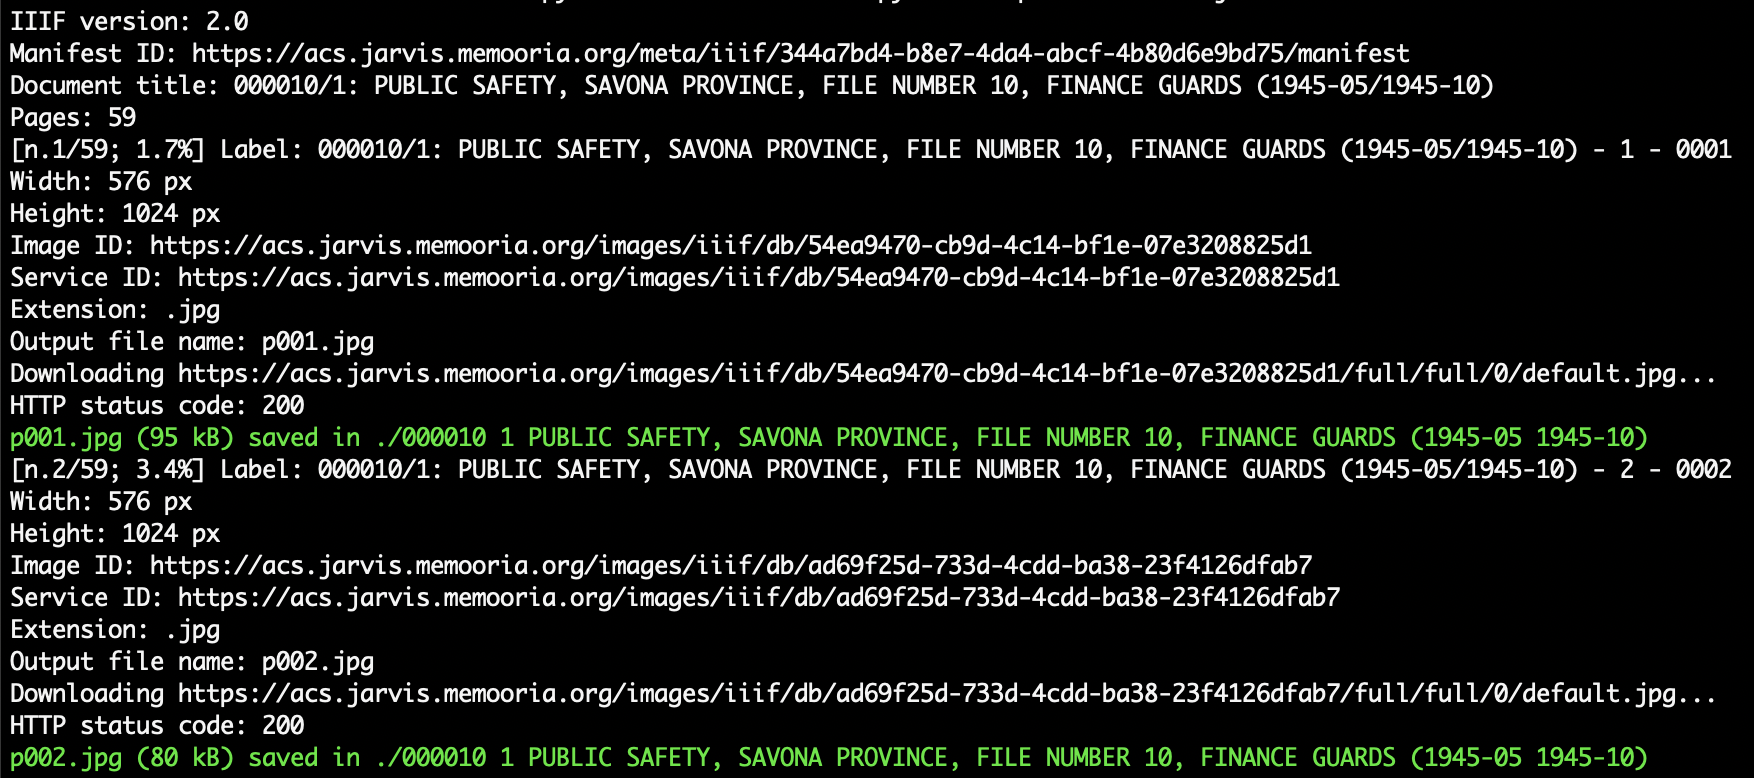
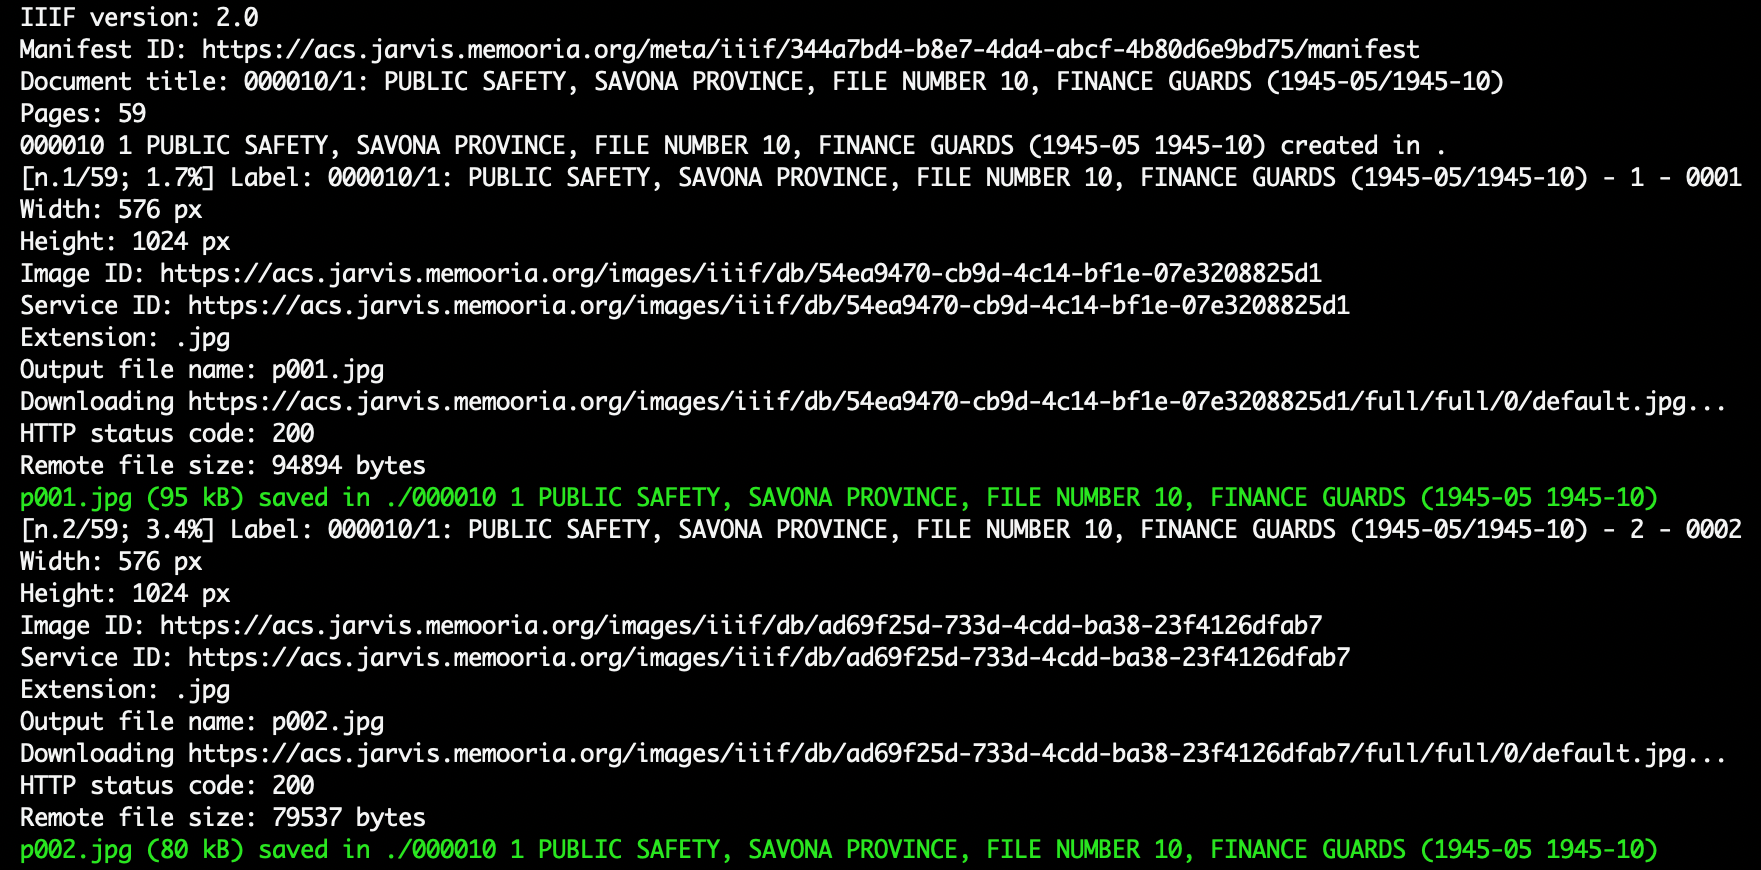
Added debug logging of remote file size from response header

Changed region(s): [[0.0, 0.0, 1.0, 1.0]]

diff --git a/iiif_downloader.py b/iiif_downloader.py
@@ -48,7 +48,7 @@ def sanitize_uri(uri: str) -> str:
 
 
 def get_extension(mime_type: str, file_id: str, nc: int) -> str:
-    """Return the extension given the MIME type (IIIF format)."""
+    """Return the extension given the MIME type or from the IIIF file name."""
     # Take the extension from the format
     mime_to_extension = {
         "image/jpeg": ".jpg",
@@ -228,13 +228,15 @@ def download_file(uri: str, filepath: str, referer: str) -> int:
     else:
         logging.debug("HTTP status code: " + str(res.getcode()))
 
-    # Check the MIME type
-    file_type = res.headers["Content-Type"].split('/')[0]
-    if file_type not in ("image", "application"):
-        logging.warning("Invalid content-type (" + str(file_type) + ")")
+    # Check the response header (file size, MIME type)
+    if res.headers["Content-Length"]:
+        logging.debug(
+            "Remote file size: " + res.headers["Content-Length"] + " bytes")
+    content_type_subtype = res.headers["Content-Type"]
+    content_type = content_type_subtype.split('/')[0]
+    if content_type not in ("image", "application"):
+        logging.warning("Invalid content type (" + str(content_type) + ")")
         return -1
-
-    # file_size = res.headers["Content-Length"]
 
     # Create the file (binary mode) even when it exists
     with open(filepath, "wb") as file:
